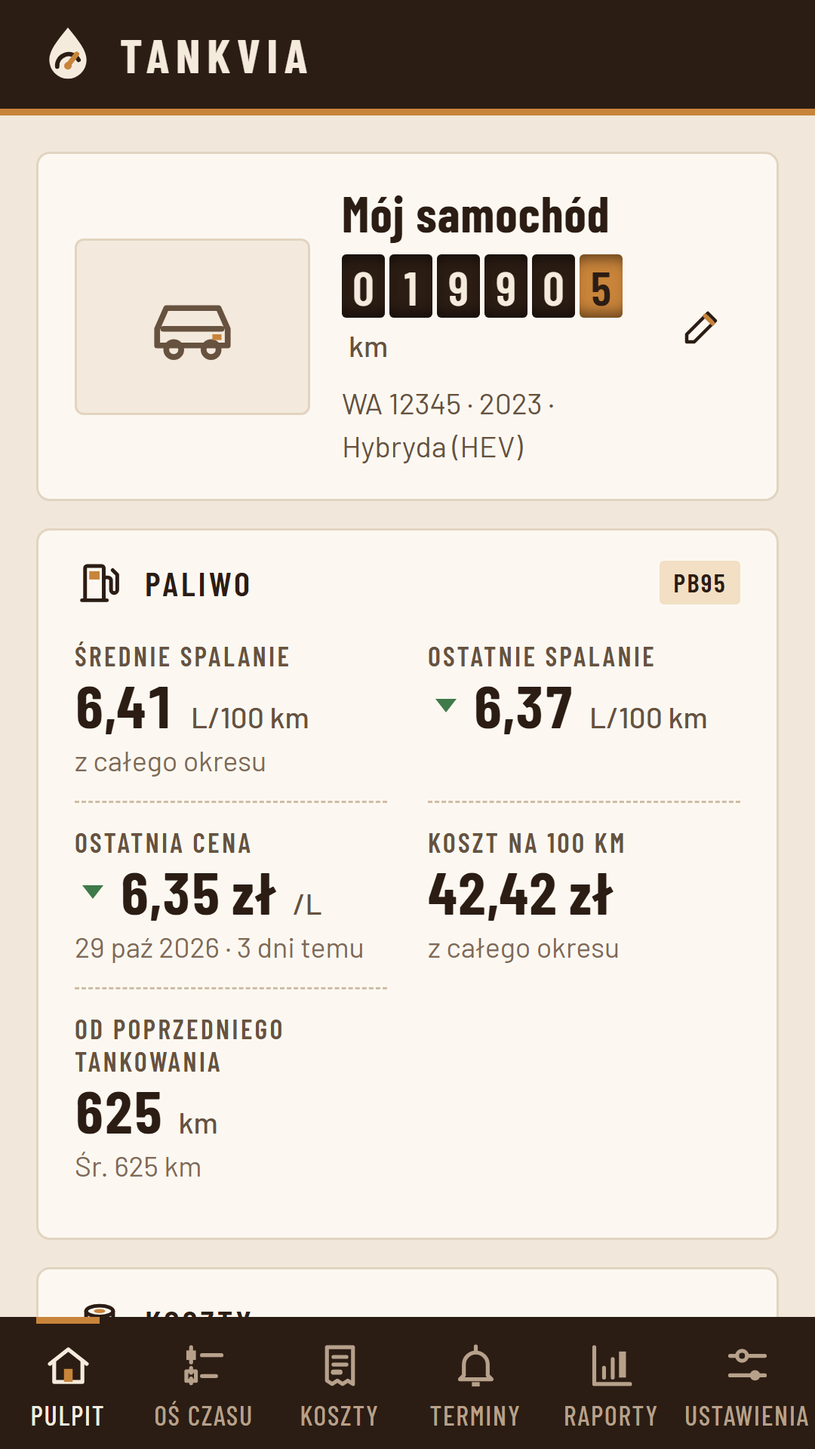
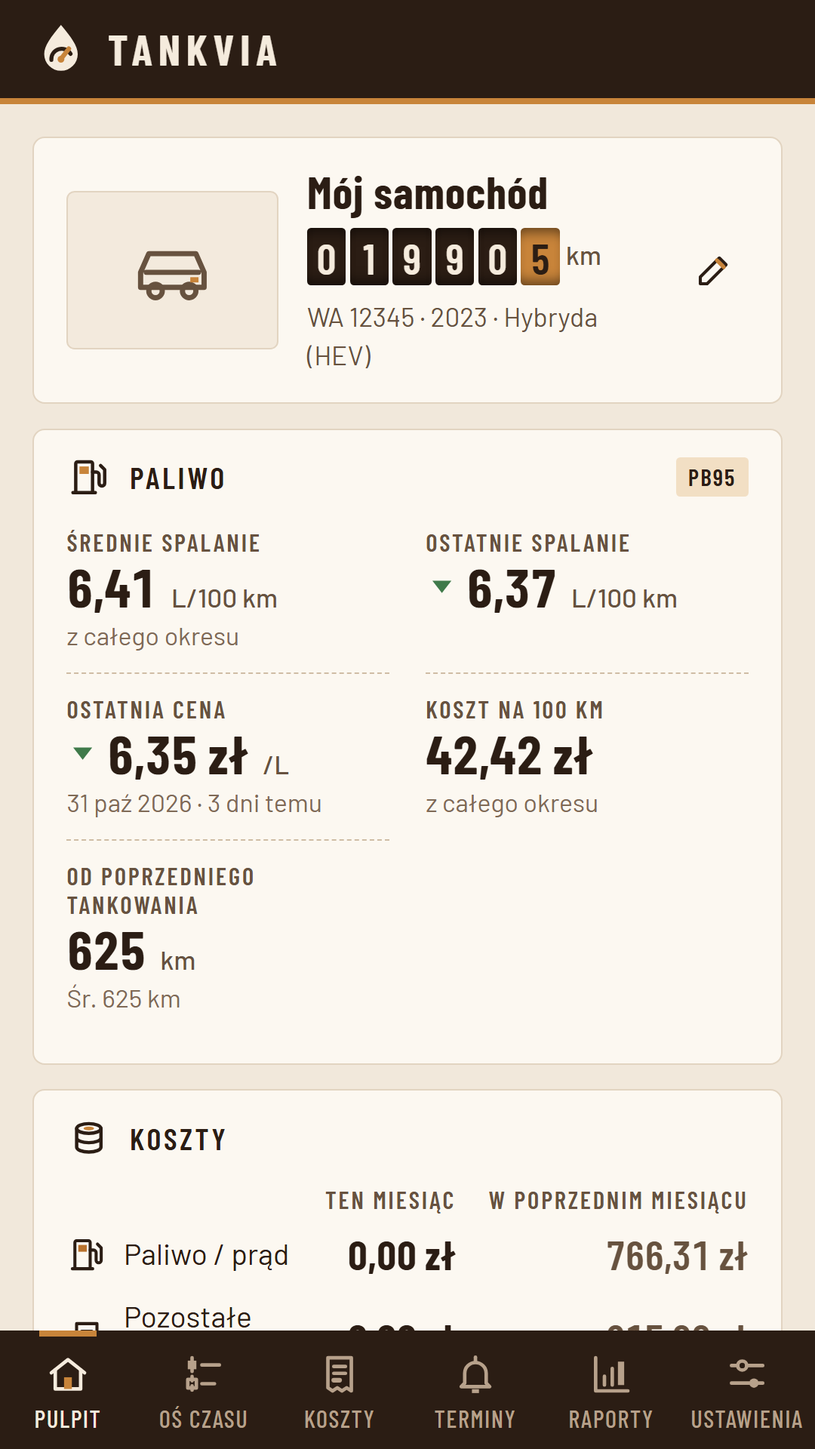
Version 1.1: interface 10% smaller, four colour sets, calendar of reminders

diff --git a/docs/index.html b/docs/index.html
@@ -11,7 +11,8 @@
 <meta name="apple-mobile-web-app-capable" content="yes">
 <meta name="apple-mobile-web-app-title" content="Tankvia">
 <script>/* before the first paint, so a chosen theme doesn't flash; the database with the settings opens later */
-let themePick;try{themePick=localStorage.getItem("tankvia-theme")}catch{}
+let themePick,palPick;try{themePick=localStorage.getItem("tankvia-theme");palPick=localStorage.getItem("tankvia-palette")}catch{}
+document.documentElement.dataset.palette=palPick||"coffee";document.documentElement.style.zoom=.9;
 document.documentElement.dataset.theme=themePick==="dark"||(themePick!=="light"&&matchMedia("(prefers-color-scheme:dark)").matches)?"dark":"light";</script>
 <style>
 /* ===== Tankvia design: "logbook & instrument cluster" =====
@@ -44,6 +45,19 @@ document.documentElement.dataset.theme=themePick==="dark"||(themePick!=="light"&
  --accent:#D9A066;--accent-soft:#44311F;--head:#0F0A07;--head-ink:#F3E8DA;--head-2:#2D2118;--head-line:#4F3D2F;--head-dim:#A8937F;
  --good:#7DB686;--bad:#E5806C;--warn:#D9A066;--warn-soft:#44311F;--danger:#E5806C;--danger-soft:#43221A;
  --c-fuel:#D9A066;--c-charge:#6FB0C2;--c-svc:#E08A6B;--c-fix:#7DB08C;--c-oth:#A0907F}
+/* the other colour sets; coffee (above) is the default. Each sets every token, for light and for dark. */
+:root[data-palette=graphite]{
+ --bg:#ECE8DF;--surface:#FBF9F4;--surface-2:#F2EEE5;--ink:#17191C;--ink-2:#585C63;--ink-3:#62666D;--line:#DCD6C9;--line-2:#C8C1B2;--accent:#E29A17;--accent-ink:#17191C;--accent-soft:#F7E5C0;--head:#17191C;--head-ink:#F2EEE5;--head-2:#2A2D31;--head-line:#3B4046;--head-dim:#9EA3AA;--good:#2D7A4E;--bad:#B5392C;--warn:#8F5500;--warn-soft:#F6E7CA;--danger:#B5392C;--danger-soft:#F4DAD5;--c-fuel:#D98A00;--c-charge:#2C6FB7;--c-svc:#A84B32;--c-fix:#2D6E6A;--c-oth:#7B7F86}
+:root[data-palette=graphite][data-theme=dark]{
+ --bg:#0E1012;--surface:#171A1D;--surface-2:#1F2327;--ink:#ECE8E0;--ink-2:#A3A7AE;--ink-3:#8A8E95;--line:#2A2E33;--line-2:#3B4046;--accent:#F2AE2E;--accent-ink:#17191C;--accent-soft:#3B2F16;--head:#08090A;--head-ink:#ECE8E0;--head-2:#1F2327;--head-line:#3B4046;--head-dim:#8F949B;--good:#5DB67F;--bad:#E66C5E;--warn:#F2AE2E;--warn-soft:#3B2F16;--danger:#E66C5E;--danger-soft:#3E1E1A;--c-fuel:#F2AE2E;--c-charge:#5C9DE8;--c-svc:#E07B60;--c-fix:#4FB3A9;--c-oth:#8E939B}
+:root[data-palette=forest]{
+ --bg:#E8ECE3;--surface:#F8FAF5;--surface-2:#EEF2E8;--ink:#17231A;--ink-2:#4C5B50;--ink-3:#5A685E;--line:#D3DCCD;--line-2:#BCC8B5;--accent:#8DB04A;--accent-ink:#17231A;--accent-soft:#E0EACB;--head:#1C2A20;--head-ink:#EEF2E8;--head-2:#2B3A2F;--head-line:#45584A;--head-dim:#A7B5AA;--good:#2F7A45;--bad:#B0402F;--warn:#7A5800;--warn-soft:#F2E7C4;--danger:#B0402F;--danger-soft:#F3DAD3;--c-fuel:#6B8E2A;--c-charge:#2C6FB7;--c-svc:#A84B32;--c-fix:#2D6E6A;--c-oth:#77806F}
+:root[data-palette=forest][data-theme=dark]{
+ --bg:#0D120E;--surface:#151C17;--surface-2:#1C251F;--ink:#E6EDE5;--ink-2:#A5B2A7;--ink-3:#86938A;--line:#26312A;--line-2:#36433A;--accent:#A8C96A;--accent-ink:#17231A;--accent-soft:#2A3520;--head:#080B09;--head-ink:#E6EDE5;--head-2:#1C251F;--head-line:#36433A;--head-dim:#8E9B91;--good:#6FC08A;--bad:#E5806C;--warn:#E2B54E;--warn-soft:#3A3118;--danger:#E5806C;--danger-soft:#43221A;--c-fuel:#A8C96A;--c-charge:#5C9DE8;--c-svc:#E08A6B;--c-fix:#4FB3A9;--c-oth:#9AA39C}
+:root[data-palette=ocean]{
+ --bg:#E7EBF0;--surface:#F8FAFC;--surface-2:#EDF1F5;--ink:#132033;--ink-2:#4B596C;--ink-3:#58657A;--line:#D4DBE4;--line-2:#BEC8D4;--accent:#E07A5F;--accent-ink:#132033;--accent-soft:#F7DCD3;--head:#14233A;--head-ink:#EDF1F5;--head-2:#22344F;--head-line:#3A4D69;--head-dim:#A3B0C2;--good:#2D7A4E;--bad:#B5392C;--warn:#8A5000;--warn-soft:#F6E7CA;--danger:#B5392C;--danger-soft:#F4DAD5;--c-fuel:#CC5E3F;--c-charge:#2C6FB7;--c-svc:#7A5AA6;--c-fix:#2D6E6A;--c-oth:#77808F}
+:root[data-palette=ocean][data-theme=dark]{
+ --bg:#0B111A;--surface:#121A26;--surface-2:#192331;--ink:#E6ECF3;--ink-2:#A3AFBF;--ink-3:#8693A4;--line:#243042;--line-2:#344257;--accent:#F08C70;--accent-ink:#132033;--accent-soft:#3D2620;--head:#070B11;--head-ink:#E6ECF3;--head-2:#192331;--head-line:#344257;--head-dim:#8C99AB;--good:#5DB67F;--bad:#E66C5E;--warn:#F0B44C;--warn-soft:#3B2F16;--danger:#E66C5E;--danger-soft:#3E1E1A;--c-fuel:#F08C70;--c-charge:#5C9DE8;--c-svc:#A98AD6;--c-fix:#4FB3A9;--c-oth:#8E97A6}
 /* Safe areas: the Android app draws edge-to-edge and Capacitor puts the bar sizes in --safe-area-inset-*; browsers/iOS use env(). */
 :root{--sat:var(--safe-area-inset-top,env(safe-area-inset-top,0px));--sab:var(--safe-area-inset-bottom,env(safe-area-inset-bottom,0px))}
 /* with the magnifier (CSS zoom) on, viewport units are not zoomed but px are, so overlays size themselves with --vw/--vh */
@@ -223,6 +237,17 @@ button.icon{padding:6px;min-height:34px;min-width:34px;justify-content:center}
 .slide .sl{font:600 11.5px var(--f-num);letter-spacing:.09em;text-transform:uppercase;color:var(--ink-2)}
 .slide .sv{font:700 21px/1.15 var(--f-num);font-variant-numeric:tabular-nums}
 .slide .sv .u{display:block;margin-left:0;white-space:nowrap}
+.cal-head{justify-content:space-between;margin:-4px 0 8px}
+.cal-head b{font:700 17px var(--f-num);letter-spacing:.06em;text-transform:uppercase}
+.cal{display:grid;grid-template-columns:repeat(7,minmax(0,1fr));gap:4px}
+.cal .wd{font:600 11px var(--f-num);letter-spacing:.06em;text-transform:uppercase;color:var(--ink-3);text-align:center;padding:2px 0;overflow:hidden;text-overflow:ellipsis;white-space:nowrap}
+.cal button{min-height:42px;padding:4px 0;flex-direction:column;justify-content:center;gap:3px;border-color:transparent;background:var(--surface-2);font:600 15px var(--f-num);border-radius:4px}
+.cal button.today{border-color:var(--accent)}
+.cal button.sel{background:var(--ink);color:var(--surface)}
+.cal .dots{display:flex;gap:2px;height:5px}
+.cal .dots i{width:5px;height:5px;border-radius:50%;background:var(--accent)}
+.cal .dots i.warn{background:var(--warn)}.cal .dots i.danger{background:var(--danger)}.cal .dots i.done{background:var(--ink-3)}
+.cal-day{margin-top:12px;padding-top:10px;border-top:1px dashed var(--line-2)}
 @media (max-width:340px){.slide .sv{font-size:17px}.mtab{gap:6px 8px}.mtab>em{font-size:16px}}
 .slide .sn{font-size:11.5px;color:var(--ink-3);line-height:1.25}
 .dots{display:flex;justify-content:center;gap:5px;margin:2px 0 16px}
@@ -378,7 +403,7 @@ select{max-width:100%}
 <script src="notify.js"></script>
 <script>
 const I18N={
-pl:{theme:"Motyw",themeAuto:"Automatyczny (jak w telefonie)",themeLight:"Jasny",themeDark:"Ciemny",searchingStations:"Szukam stacji…",avgAll:"z całego okresu",avgPerUnit:"ważona ilością",avgMonthNote:"z {n} mies.",avgTooShort:"potrzeba min. 4 tygodni danych",dashboard:"Pulpit",fuelTab:"Tankowania",chargeTab:"Ładowania",energyTab:"Paliwo i prąd",costs:"Koszty",reminders:"Przypomnienia",reports:"Raporty",settings:"Ustawienia",
+pl:{addEvent:"Dodaj wydarzenie",palette:"Kolorystyka",palCoffee:"Kawa",palGraphite:"Grafit",palForest:"Las",palOcean:"Ocean",calendar:"Kalendarz",noRemDay:"Brak terminów w tym dniu.",prevMonth:"Poprzedni miesiąc",nextMonth:"Następny miesiąc",theme:"Motyw",themeAuto:"Automatyczny (jak w telefonie)",themeLight:"Jasny",themeDark:"Ciemny",searchingStations:"Szukam stacji…",avgAll:"z całego okresu",avgPerUnit:"ważona ilością",avgMonthNote:"z {n} mies.",avgTooShort:"potrzeba min. 4 tygodni danych",dashboard:"Pulpit",fuelTab:"Tankowania",chargeTab:"Ładowania",energyTab:"Paliwo i prąd",costs:"Koszty",reminders:"Przypomnienia",reports:"Raporty",settings:"Ustawienia",
 addFuel:"Dodaj tankowanie",editFuel:"Edytuj tankowanie",addCharge:"Dodaj ładowanie",editCharge:"Edytuj ładowanie",addCost:"Dodaj koszt",editCost:"Edytuj koszt",addReminder:"Zaplanuj serwis",editReminder:"Edytuj planowany serwis",addVehicle:"Dodaj samochód",editVehicle:"Edytuj samochód",
 vehicles:"Samochody",name:"Nazwa (np. Skoda Octavia)",plate:"Nr rejestracyjny",year:"Rok produkcji",vin:"VIN",tankCap:"Pojemność baku",battery:"Pojemność baterii (kWh)",batteryShort:"Bateria",carPhoto:"Zdjęcie samochodu",fuelType:"Napęd",
 refCons:"Spalanie porównywalnego auta spalinowego",refPrice:"Cena paliwa do porównania",refHint:"Na tej podstawie aplikacja policzy, ile oszczędzasz, jeżdżąc na prądzie.",
@@ -413,7 +438,7 @@ fuelTypes:{petrol:"Benzyna",diesel:"Diesel",lpg:"LPG",hybrid:"Hybryda (HEV)",phe
 ct:{home:"Dom",work:"Praca",ac:"Publiczna AC",dc:"Szybka DC"},
 kinds:{service:"Serwis",repair:"Naprawa",tyres:"Opony",inspection:"Przegląd techniczny",insurance:"Ubezpieczenie",tax:"Podatki i opłaty",leasing:"Leasing / rata",parking:"Parking",tolls:"Autostrady",wash:"Myjnia",fines:"Mandaty",accessories:"Akcesoria",other:"Inne"},
 grp:{fuel:"Paliwo",charge:"Ładowanie",svc:"Serwis i naprawy",fix:"Ubezpieczenie, opłaty, leasing",oth:"Inne"}},
-en:{theme:"Theme",themeAuto:"Automatic (follow phone)",themeLight:"Light",themeDark:"Dark",searchingStations:"Searching for stations…",avgAll:"over all records",avgPerUnit:"weighted by amount",avgMonthNote:"over {n} months",avgTooShort:"needs at least 4 weeks of data",dashboard:"Dashboard",fuelTab:"Fill-ups",chargeTab:"Charging",energyTab:"Fuel & power",costs:"Costs",reminders:"Reminders",reports:"Reports",settings:"Settings",
+en:{addEvent:"Add event",palette:"Colours",palCoffee:"Coffee",palGraphite:"Graphite",palForest:"Forest",palOcean:"Ocean",calendar:"Calendar",noRemDay:"Nothing scheduled on this day.",prevMonth:"Previous month",nextMonth:"Next month",theme:"Theme",themeAuto:"Automatic (follow phone)",themeLight:"Light",themeDark:"Dark",searchingStations:"Searching for stations…",avgAll:"over all records",avgPerUnit:"weighted by amount",avgMonthNote:"over {n} months",avgTooShort:"needs at least 4 weeks of data",dashboard:"Dashboard",fuelTab:"Fill-ups",chargeTab:"Charging",energyTab:"Fuel & power",costs:"Costs",reminders:"Reminders",reports:"Reports",settings:"Settings",
 addFuel:"Add fill-up",editFuel:"Edit fill-up",addCharge:"Add charge",editCharge:"Edit charge",addCost:"Add cost",editCost:"Edit cost",addReminder:"Schedule service",editReminder:"Edit scheduled service",addVehicle:"Add car",editVehicle:"Edit car",
 vehicles:"Cars",name:"Name (e.g. Toyota Corolla)",plate:"Licence plate",year:"Year",vin:"VIN",tankCap:"Tank capacity",battery:"Battery capacity (kWh)",batteryShort:"Battery",carPhoto:"Car photo",fuelType:"Powertrain",
 refCons:"Comparable combustion car consumption",refPrice:"Fuel price for comparison",refHint:"Used to calculate how much you save by driving electric.",
@@ -455,7 +480,7 @@ const UNITS={
  us:{label:"mi · gal (US) · mpg",d:"mi",v:"gal",cons:(q,d)=>d/q,cu:"mpg",econs:(e,d)=>d/e,ecu:"mi/kWh",used:(c,d)=>d/c},
  uk:{label:"mi · gal (UK) · mpg",d:"mi",v:"gal",cons:(q,d)=>d/q,cu:"mpg",econs:(e,d)=>d/e,ecu:"mi/kWh",used:(c,d)=>d/c}
 };
-const ZOOMS=[1,1.15,1.3,1.5,1.75,2];
+const ZOOMS=[1,1.15,1.3,1.5,1.75,2],UI_SCALE=.9; // everything is drawn at 90%: testers found the 2026 layout too big
 const CURRENCIES=["PLN","EUR","USD","GBP","CHF","CZK","SEK","NOK","DKK","ISK","HUF","RON","UAH","CAD","AUD","JPY","INR","BRL","MXN","TRY","ZAR"];
 /* Polish and English are built in; the other languages live in lang/<code>.js and load when chosen.
    [native name, Intl locale, default currency for a first start in that language] */
@@ -505,7 +530,9 @@ const NAV_SHORT={pl:{reminders:"Terminy"},de:{reminders:"Termine",settings:"Opti
 // All menu labels share one size: the largest at which none of them is cut off.
 function applyTheme(){
  const pick=S.settings.theme||"auto";document.documentElement.dataset.theme=pick==="dark"||(pick==="auto"&&matchMedia("(prefers-color-scheme:dark)").matches)?"dark":"light";
- if(!S.demo)try{localStorage.setItem("tankvia-theme",pick)}catch{}
+ document.documentElement.dataset.palette=S.settings.palette||"coffee";
+ $('meta[name="theme-color"]').content=getComputedStyle(document.documentElement).getPropertyValue("--head").trim();
+ if(!S.demo)try{localStorage.setItem("tankvia-theme",pick);localStorage.setItem("tankvia-palette",S.settings.palette||"coffee")}catch{}
 }
 matchMedia("(prefers-color-scheme:dark)").addEventListener("change",()=>applyTheme());
 function fitNav(){const box=$("#tabs"),labels=[...box.querySelectorAll(".lbl")];for(const fs of [12,11.5,11,10.5,10,9.5,9]){box.style.setProperty("--nav-fs",fs+"px");box.style.setProperty("--nav-ls",fs<12?".01em":".05em");if(!labels.some(l=>l.scrollWidth>l.clientWidth))break}}
@@ -827,13 +854,13 @@ function costForm(s,kind){
  ],s||{kind:kind||"service",date:today(),odo:curOdo()||null},o=>{let x=s;if(s)Object.assign(s,o);else{x={id:uid(),vid:S.active,...o};S.services.push(x)}syncAutoReminder(x)},
  s&&(()=>{S.services=S.services.filter(x=>x!==s);S.reminders=S.reminders.filter(r=>!(r.src===s.id&&!r.done))}));
 }
-function reminderForm(r){
+function reminderForm(r,date){
  const u=U();
  openForm(t(r?"editReminder":"addReminder"),[
   {k:"title",label:t("remTitle"),req:true},
   [{k:"date",label:t("dueDate"),type:"date"},{k:"odo",label:`${t("dueOdo")} (${u.d})`,type:"number"}],
   {k:"note",label:t("note"),type:"textarea"}
- ],r||{},o=>{if(r)Object.assign(r,o);else S.reminders.push({id:uid(),vid:S.active,done:false,...o})},
+ ],r||(date?{date}:{}),o=>{if(r)Object.assign(r,o);else S.reminders.push({id:uid(),vid:S.active,done:false,...o})},
  r&&(()=>{S.reminders=S.reminders.filter(x=>x!==r)}));
 }
 function reportForm(){
@@ -1015,10 +1042,25 @@ function viewCosts(){
  <div class="card list">${list.length?list.map(costItem).join(""):emptyBox("receipt",t("noEntries"))}</div>
  ${list.length?`<div class="card row"><span class="rl">${t("total")}</span><span class="sp"></span><span class="rv">${money(sum(list,s=>+s.cost||0))}</span></div>`:""}`;
 }
+/* Month calendar of reminders: dots on days with something due, a tap shows that day and lets you add a reminder for it. */
+let calMonth=null,calDay=null;
+function calendarCard(){
+ const m=calMonth||today().slice(0,7),[y,mo]=m.split("-").map(Number),days=new Date(y,mo,0).getDate();
+ const li=new Intl.Locale(loc()),fd=((li.getWeekInfo?.()||li.weekInfo)?.firstDay??1)%7,lead=(new Date(y,mo-1,1).getDay()-fd+7)%7;
+ const ev={};mine(S.reminders).filter(r=>r.date?.startsWith(m)).forEach(r=>(ev[r.date]=ev[r.date]||[]).push(r));
+ const wd=[...Array(7)].map((_,i)=>`<span class="wd">${new Intl.DateTimeFormat(loc(),{weekday:"short"}).format(new Date(2024,0,7+(fd+i)%7))}</span>`).join("");
+ const cells=[...Array(lead)].map(()=>"<span></span>").join("")+[...Array(days)].map((_,i)=>{const k=`${m}-${pad(i+1)}`,list=ev[k]||[];
+  return`<button type="button" class="${k===today()?"today":""} ${k===calDay?"sel":""}" data-act="calDay" data-id="${k}"><span>${i+1}</span><span class="dots">${list.slice(0,3).map(r=>`<i class="${r.done?"done":remStatus(r)?.cls||""}"></i>`).join("")}</span></button>`}).join("");
+ const sel=calDay?.startsWith(m)?calDay:null,selList=sel?ev[sel]||[]:[];
+ return`<h3>${ic("calendar")}${t("calendar")}</h3><div class="card"><div class="row cal-head"><button type="button" class="small ghost icon" data-act="calMove" data-id="-1" aria-label="${t("prevMonth")}"><span style="display:inline-flex;transform:scaleX(-1)">${ic("arrow")}</span></button><b>${new Intl.DateTimeFormat(loc(),{month:"long",year:"numeric"}).format(new Date(y,mo-1,15))}</b><button type="button" class="small ghost icon" data-act="calMove" data-id="1" aria-label="${t("nextMonth")}">${ic("arrow")}</button></div>
+ <div class="cal">${wd}${cells}</div>
+ ${sel?`<div class="cal-day"><div class="row"><b>${fdate(sel)}</b><span class="sp"></span><button type="button" class="small" data-act="calAdd" data-id="${sel}">${ic("plus")}${t("addEvent")}</button></div>${selList.length?`<div class="list">${selList.map(remItem).join("")}</div>`:`<p class="muted" style="margin:6px 0 0">${t("noRemDay")}</p>`}</div>`:""}</div>`;
+}
 function viewReminders(){
  if(!veh())return viewDashboard();
  const all=mine(S.reminders),open=sortRem(all.filter(r=>!r.done)),done=all.filter(r=>r.done);
  return`<div class="row" style="margin-bottom:12px"><h2 style="margin:0">${ic("bell")}${t("reminders")}</h2><span class="sp"></span><button class="primary" data-act="remAdd">${ic("plus")}${t("addReminder")}</button></div>
+ ${calendarCard()}
  <h3>${t("upcoming")}</h3><div class="card list">${open.length?open.map(remItem).join(""):emptyBox("bell",t("noEntries"))}</div>
  ${done.length?`<h3>${t("completed")}</h3><div class="card list">${done.map(remItem).join("")}</div>`:""}`;
 }
@@ -1068,7 +1110,8 @@ function viewSettings(){
  <div class="card"><div class="grid2">
   <label class="field"><span>${t("language")}</span><select data-set="lang">${Object.entries(LANGS).map(([k,[n]])=>`<option value="${k}" ${s.lang===k?"selected":""}>${n}</option>`).join("")}</select></label>
   <label class="field"><span>${t("currency")}</span><select data-set="currency">${CURRENCIES.map(c=>`<option ${c===s.currency?"selected":""}>${c}</option>`).join("")}</select></label>
- </div><label class="field" style="margin-top:12px"><span>${t("theme")}</span><select data-set="theme">${["Auto","Light","Dark"].map(v=>`<option value="${v.toLowerCase()}" ${(s.theme||"auto")===v.toLowerCase()?"selected":""}>${t("theme"+v)}</option>`).join("")}</select></label>
+ </div><label class="field" style="margin-top:12px"><span>${t("palette")}</span><select data-set="palette">${["Coffee","Graphite","Forest","Ocean"].map(v=>`<option value="${v.toLowerCase()}" ${(s.palette||"coffee")===v.toLowerCase()?"selected":""}>${t("pal"+v)}</option>`).join("")}</select></label>
+ <label class="field" style="margin-top:12px"><span>${t("theme")}</span><select data-set="theme">${["Auto","Light","Dark"].map(v=>`<option value="${v.toLowerCase()}" ${(s.theme||"auto")===v.toLowerCase()?"selected":""}>${t("theme"+v)}</option>`).join("")}</select></label>
  <label class="field" style="margin-top:12px"><span>${t("textSize")}</span><select data-set="zoom">${ZOOMS.map(z=>`<option value="${z}" ${z==(s.zoom||1)?"selected":""}>${Math.round(z*100)}%${z==1?` (${t("normal")})`:""}</option>`).join("")}</select><small>${t("textSizeHint")}</small></label>
  <label class="field" style="margin-top:12px"><span>${t("units")}</span><select data-set="units">${Object.entries(UNITS).map(([k,v])=>`<option value="${k}" ${k===s.units?"selected":""}>${v.label} · ${v.ecu}</option>`).join("")}</select></label></div>
  <h3>${ic("car")}${t("vehicles")}</h3><div class="card list">${S.vehicles.map(v=>`<div class="item">${v.photo?`<img class="thumb" src="${v.photo}" alt="">`:tile(v.fuelType==="ev"?"bolt":"car","var(--accent)")}<div class="main"><div class="t">${esc(v.name)} ${v.id===S.active?`<span class="badge">${ic("check","sm")}</span>`:""}</div><div class="s">${[v.plate,t("fuelTypes")[v.fuelType]].filter(Boolean).map(esc).join(" · ")}</div></div><button class="small ghost" data-act="vehEditId" data-id="${v.id}">${ic("edit")}${t("edit")}</button></div>`).join("")}
@@ -1113,7 +1156,7 @@ function render(){
  document.documentElement.lang=S.settings.lang;
  // magnifier: CSS zoom scales the whole layout (text, buttons, charts) and reflows it, so nothing gets cut off
  applyTheme();
- const zm=+S.settings.zoom||1;document.documentElement.style.zoom=zm;document.documentElement.style.setProperty("--zoom",zm);$("#zoomBtn").hidden=!!S.demo;document.documentElement.classList.toggle("zoom-xl",zm>=1.75&&!S.demo);document.documentElement.classList.toggle("zoom-l",zm>=1.15&&!S.demo);
+ const zm=+S.settings.zoom||1,ez=zm*UI_SCALE;document.documentElement.style.zoom=ez;document.documentElement.style.setProperty("--zoom",ez);$("#zoomBtn").hidden=!!S.demo;document.documentElement.classList.toggle("zoom-xl",zm>=1.75&&!S.demo);document.documentElement.classList.toggle("zoom-l",zm>=1.15&&!S.demo);
  $("#zoomBtn").innerHTML=`${ic("search")}${Math.round(zm*100)}%`;$("#zoomBtn").title=$("#zoomBtn").ariaLabel=t("textSize");
  const V=veh(),sel=$("#vehSel");sel.hidden=S.vehicles.length<2;sel.innerHTML=S.vehicles.map(v=>`<option value="${v.id}" ${v.id===S.active?"selected":""}>${esc(v.name)}</option>`).join("");
  const due=mine(S.reminders).filter(r=>remStatus(r)?.cls==="danger").length;
@@ -1172,7 +1215,7 @@ function demoState(lang){
 }
 
 /* ---------- install & notifications ---------- */
-const APP_VERSION="v17"; // keep in sync with VERSION in sw.js
+const APP_VERSION="v18"; // keep in sync with VERSION in sw.js
 let installEvt=null;
 const isNative=!!window.Capacitor?.isNativePlatform?.(); // running as the Google Play / App Store app
 const standalone=()=>isNative||matchMedia("(display-mode: standalone)").matches||navigator.standalone===true;
@@ -1242,7 +1285,10 @@ document.addEventListener("click",e=>{
   fuelAdd:()=>fuelForm(),fuelEdit:()=>fuelForm(S.fuel.find(x=>x.id===id)),
   chargeAdd:()=>chargeForm(),chargeEdit:()=>chargeForm(S.charges.find(x=>x.id===id)),
   costAdd:()=>costForm(null,costFilter==="fix"?"insurance":costFilter==="oth"?"parking":"service"),costEdit:()=>costForm(S.services.find(x=>x.id===id)),
-  remAdd:()=>reminderForm(),remEdit:()=>reminderForm(S.reminders.find(x=>x.id===id)),
+  remAdd:()=>reminderForm(),
+  calMove:()=>{const[y,m]=(calMonth||today().slice(0,7)).split("-").map(Number),d=new Date(y,m-1+(+id),15);calMonth=`${d.getFullYear()}-${pad(d.getMonth()+1)}`;render()},
+  calDay:()=>{calDay=calDay===id?null:id;render()},
+  calAdd:()=>reminderForm(null,id),remEdit:()=>reminderForm(S.reminders.find(x=>x.id===id)),
   remToggle:()=>{const r=S.reminders.find(x=>x.id===id);r.done=!r.done;r.doneDate=r.done?today():null;save();render()},
   tlFilter:()=>{tlFilter=id;render()},costFilter:()=>{costFilter=id;render()},fab:quickAdd,
   zoom:()=>{const i=ZOOMS.indexOf(+S.settings.zoom||1);S.settings.zoom=ZOOMS[(i+1)%ZOOMS.length];save();render()},
@@ -1266,7 +1312,7 @@ $("#vehSel").onchange=e=>{S.active=e.target.value;save();render()};
  if(!qs.has("demo"))try{S=await idb.get("state")}catch(e){console.error(e)}
  S=S?{...defaults(),...S}:defaults();
  await loadLang(qs.get("lang")||S.settings.lang);
- if(qs.has("demo")){S=demoState(qs.get("lang")||S.settings.lang);tab=qs.get("tab")||tab;if(qs.has("z"))S.settings.zoom=+qs.get("z");if(qs.has("theme"))S.settings.theme=qs.get("theme")} // sample data for store screenshots; never saved
+ if(qs.has("demo")){S=demoState(qs.get("lang")||S.settings.lang);tab=qs.get("tab")||tab;if(qs.has("z"))S.settings.zoom=+qs.get("z");if(qs.has("theme"))S.settings.theme=qs.get("theme");if(qs.has("palette"))S.settings.palette=qs.get("palette")} // sample data for store screenshots; never saved
  render();
  if(S.demo){if(qs.get("open")==="fuel")fuelForm();if(qs.get("open")==="fab")quickAdd();if(qs.get("at")==="trends")for(const el of [...$("#app").children]){if(el.nextElementSibling?.id==="carousel")break;el.hidden=true}}
  if(!S.vehicles.length)vehicleForm();

diff --git a/docs/lang/hi.js b/docs/lang/hi.js
@@ -1,4 +1,4 @@
-I18N.hi={theme:"थीम",themeAuto:"स्वचालित (फ़ोन के अनुसार)",themeLight:"हल्की",themeDark:"गहरी",searchingStations:"पंप खोजे जा रहे हैं…",avgAll:"पूरी अवधि का",avgPerUnit:"मात्रा के अनुसार भारित",avgMonthNote:"{n} महीनों का",avgTooShort:"कम से कम 4 हफ़्ते का डेटा चाहिए",dashboard:"डैशबोर्ड",fuelTab:"ईंधन भराई",chargeTab:"चार्जिंग",energyTab:"ईंधन और बिजली",costs:"खर्च",reminders:"रिमाइंडर",reports:"रिपोर्ट",settings:"सेटिंग्स",
+I18N.hi={addEvent:"इवेंट जोड़ें",palette:"रंग",palCoffee:"कॉफ़ी",palGraphite:"ग्रेफ़ाइट",palForest:"जंगल",palOcean:"सागर",calendar:"कैलेंडर",noRemDay:"इस दिन के लिए कुछ तय नहीं है।",prevMonth:"पिछला महीना",nextMonth:"अगला महीना",theme:"थीम",themeAuto:"स्वचालित (फ़ोन के अनुसार)",themeLight:"हल्की",themeDark:"गहरी",searchingStations:"पंप खोजे जा रहे हैं…",avgAll:"पूरी अवधि का",avgPerUnit:"मात्रा के अनुसार भारित",avgMonthNote:"{n} महीनों का",avgTooShort:"कम से कम 4 हफ़्ते का डेटा चाहिए",dashboard:"डैशबोर्ड",fuelTab:"ईंधन भराई",chargeTab:"चार्जिंग",energyTab:"ईंधन और बिजली",costs:"खर्च",reminders:"रिमाइंडर",reports:"रिपोर्ट",settings:"सेटिंग्स",
 addFuel:"ईंधन भराई जोड़ें",editFuel:"ईंधन भराई बदलें",addCharge:"चार्जिंग जोड़ें",editCharge:"चार्जिंग बदलें",addCost:"खर्च जोड़ें",editCost:"खर्च बदलें",addReminder:"सर्विस तय करें",editReminder:"तय सर्विस बदलें",addVehicle:"कार जोड़ें",editVehicle:"कार बदलें",
 vehicles:"कारें",name:"नाम (जैसे Maruti Swift)",plate:"नंबर प्लेट",year:"साल",vin:"चेसिस नंबर (VIN)",tankCap:"टंकी की क्षमता",battery:"बैटरी क्षमता (kWh)",batteryShort:"बैटरी",carPhoto:"कार की फ़ोटो",fuelType:"इंजन प्रकार",
 refCons:"मिलती-जुलती पेट्रोल/डीज़ल कार की खपत",refPrice:"तुलना के लिए ईंधन की कीमत",refHint:"इससे पता चलता है कि बिजली से चलाकर आप कितना बचाते हैं।",

diff --git a/docs/lang/bg.js b/docs/lang/bg.js
@@ -1,4 +1,4 @@
-I18N.bg={theme:"Тема",themeAuto:"Автоматично (като телефона)",themeLight:"Светла",themeDark:"Тъмна",searchingStations:"Търсене на станции…",avgAll:"за целия период",avgPerUnit:"претеглено по количество",avgMonthNote:"за {n} мес.",avgTooShort:"нужни са поне 4 седмици данни",dashboard:"Табло",fuelTab:"Зареждания",chargeTab:"Зареждания (ток)",energyTab:"Гориво и ток",costs:"Разходи",reminders:"Напомняния",reports:"Отчети",settings:"Настройки",
+I18N.bg={addEvent:"Добави събитие",palette:"Цветове",palCoffee:"Кафе",palGraphite:"Графит",palForest:"Гора",palOcean:"Океан",calendar:"Календар",noRemDay:"Няма нищо планирано за този ден.",prevMonth:"Предишен месец",nextMonth:"Следващ месец",theme:"Тема",themeAuto:"Автоматично (като телефона)",themeLight:"Светла",themeDark:"Тъмна",searchingStations:"Търсене на станции…",avgAll:"за целия период",avgPerUnit:"претеглено по количество",avgMonthNote:"за {n} мес.",avgTooShort:"нужни са поне 4 седмици данни",dashboard:"Табло",fuelTab:"Зареждания",chargeTab:"Зареждания (ток)",energyTab:"Гориво и ток",costs:"Разходи",reminders:"Напомняния",reports:"Отчети",settings:"Настройки",
 addFuel:"Добави зареждане",editFuel:"Редактирай зареждането",addCharge:"Добави зареждане с ток",editCharge:"Редактирай зареждането с ток",addCost:"Добави разход",editCost:"Редактирай разхода",addReminder:"Планирай сервиз",editReminder:"Редактирай планирания сервиз",addVehicle:"Добави кола",editVehicle:"Редактирай колата",
 vehicles:"Коли",name:"Име (напр. VW Golf)",plate:"Регистрационен номер",year:"Година",vin:"VIN номер",tankCap:"Обем на резервоара",battery:"Капацитет на батерията (kWh)",batteryShort:"Батерия",carPhoto:"Снимка на колата",fuelType:"Задвижване",
 refCons:"Разход на сравним автомобил с ДВГ",refPrice:"Цена на горивото за сравнение",refHint:"Използва се, за да се изчисли колко спестявате с електромобил.",

diff --git a/docs/lang/uk.js b/docs/lang/uk.js
@@ -1,4 +1,4 @@
-I18N.uk={theme:"Тема",themeAuto:"Автоматично (як у телефоні)",themeLight:"Світла",themeDark:"Темна",searchingStations:"Пошук станцій…",avgAll:"за весь період",avgPerUnit:"зважене за кількістю",avgMonthNote:"за {n} міс.",avgTooShort:"потрібно щонайменше 4 тижні даних",dashboard:"Огляд",fuelTab:"Заправки",chargeTab:"Зарядки",energyTab:"Пальне та електрика",costs:"Витрати",reminders:"Нагадування",reports:"Звіти",settings:"Налаштування",
+I18N.uk={addEvent:"Додати подію",palette:"Кольори",palCoffee:"Кава",palGraphite:"Графіт",palForest:"Ліс",palOcean:"Океан",calendar:"Календар",noRemDay:"На цей день нічого не заплановано.",prevMonth:"Попередній місяць",nextMonth:"Наступний місяць",theme:"Тема",themeAuto:"Автоматично (як у телефоні)",themeLight:"Світла",themeDark:"Темна",searchingStations:"Пошук станцій…",avgAll:"за весь період",avgPerUnit:"зважене за кількістю",avgMonthNote:"за {n} міс.",avgTooShort:"потрібно щонайменше 4 тижні даних",dashboard:"Огляд",fuelTab:"Заправки",chargeTab:"Зарядки",energyTab:"Пальне та електрика",costs:"Витрати",reminders:"Нагадування",reports:"Звіти",settings:"Налаштування",
 addFuel:"Додати заправку",editFuel:"Редагувати заправку",addCharge:"Додати зарядку",editCharge:"Редагувати зарядку",addCost:"Додати витрату",editCost:"Редагувати витрату",addReminder:"Запланувати сервіс",editReminder:"Редагувати запланований сервіс",addVehicle:"Додати авто",editVehicle:"Редагувати авто",
 vehicles:"Автомобілі",name:"Назва (напр. Toyota Corolla)",plate:"Номерний знак",year:"Рік випуску",vin:"VIN-код",tankCap:"Об’єм бака",battery:"Ємність батареї (кВт·год)",batteryShort:"Батарея",carPhoto:"Фото авто",fuelType:"Тип приводу",
 refCons:"Витрата порівнянного авто з ДВЗ",refPrice:"Ціна пального для порівняння",refHint:"Потрібно, щоб порахувати, скільки ви заощаджуєте на електриці.",

diff --git a/docs/lang/hu.js b/docs/lang/hu.js
@@ -1,4 +1,4 @@
-I18N.hu={theme:"Téma",themeAuto:"Automatikus (mint a telefon)",themeLight:"Világos",themeDark:"Sötét",searchingStations:"Állomások keresése…",avgAll:"a teljes időszakra",avgPerUnit:"mennyiséggel súlyozva",avgMonthNote:"{n} hónap alapján",avgTooShort:"legalább 4 hét adat kell",dashboard:"Áttekintés",fuelTab:"Tankolások",chargeTab:"Töltések",energyTab:"Üzemanyag és áram",costs:"Költségek",reminders:"Emlékeztetők",reports:"Jelentések",settings:"Beállítások",
+I18N.hu={addEvent:"Esemény hozzáadása",palette:"Színek",palCoffee:"Kávé",palGraphite:"Grafit",palForest:"Erdő",palOcean:"Óceán",calendar:"Naptár",noRemDay:"Erre a napra nincs semmi tervezve.",prevMonth:"Előző hónap",nextMonth:"Következő hónap",theme:"Téma",themeAuto:"Automatikus (mint a telefon)",themeLight:"Világos",themeDark:"Sötét",searchingStations:"Állomások keresése…",avgAll:"a teljes időszakra",avgPerUnit:"mennyiséggel súlyozva",avgMonthNote:"{n} hónap alapján",avgTooShort:"legalább 4 hét adat kell",dashboard:"Áttekintés",fuelTab:"Tankolások",chargeTab:"Töltések",energyTab:"Üzemanyag és áram",costs:"Költségek",reminders:"Emlékeztetők",reports:"Jelentések",settings:"Beállítások",
 addFuel:"Tankolás hozzáadása",editFuel:"Tankolás szerkesztése",addCharge:"Töltés hozzáadása",editCharge:"Töltés szerkesztése",addCost:"Költség hozzáadása",editCost:"Költség szerkesztése",addReminder:"Szerviz ütemezése",editReminder:"Ütemezett szerviz szerkesztése",addVehicle:"Autó hozzáadása",editVehicle:"Autó szerkesztése",
 vehicles:"Autók",name:"Név (pl. Suzuki Vitara)",plate:"Rendszám",year:"Gyártási év",vin:"Alvázszám (VIN)",tankCap:"Tank térfogata",battery:"Akkumulátor kapacitása (kWh)",batteryShort:"Akkumulátor",carPhoto:"Fotó az autóról",fuelType:"Hajtás",
 refCons:"Hasonló belső égésű autó fogyasztása",refPrice:"Üzemanyagár az összehasonlításhoz",refHint:"Ebből számolja ki az alkalmazás, mennyit spórolsz elektromos autóval.",

diff --git a/docs/lang/fr.js b/docs/lang/fr.js
@@ -1,4 +1,4 @@
-I18N.fr={theme:"Thème",themeAuto:"Automatique (comme le téléphone)",themeLight:"Clair",themeDark:"Sombre",searchingStations:"Recherche des stations…",avgAll:"sur toute la période",avgPerUnit:"pondéré par la quantité",avgMonthNote:"sur {n} mois",avgTooShort:"au moins 4 semaines de données",dashboard:"Tableau de bord",fuelTab:"Pleins",chargeTab:"Recharges",energyTab:"Carburant & électricité",costs:"Dépenses",reminders:"Rappels",reports:"Rapports",settings:"Réglages",
+I18N.fr={addEvent:"Ajouter un événement",palette:"Couleurs",palCoffee:"Café",palGraphite:"Graphite",palForest:"Forêt",palOcean:"Océan",calendar:"Calendrier",noRemDay:"Rien de prévu ce jour-là.",prevMonth:"Mois précédent",nextMonth:"Mois suivant",theme:"Thème",themeAuto:"Automatique (comme le téléphone)",themeLight:"Clair",themeDark:"Sombre",searchingStations:"Recherche des stations…",avgAll:"sur toute la période",avgPerUnit:"pondéré par la quantité",avgMonthNote:"sur {n} mois",avgTooShort:"au moins 4 semaines de données",dashboard:"Tableau de bord",fuelTab:"Pleins",chargeTab:"Recharges",energyTab:"Carburant & électricité",costs:"Dépenses",reminders:"Rappels",reports:"Rapports",settings:"Réglages",
 addFuel:"Ajouter un plein",editFuel:"Modifier le plein",addCharge:"Ajouter une recharge",editCharge:"Modifier la recharge",addCost:"Ajouter une dépense",editCost:"Modifier la dépense",addReminder:"Planifier un entretien",editReminder:"Modifier l’entretien prévu",addVehicle:"Ajouter une voiture",editVehicle:"Modifier la voiture",
 vehicles:"Voitures",name:"Nom (ex. Renault Clio)",plate:"Immatriculation",year:"Année",vin:"N° VIN",tankCap:"Capacité du réservoir",battery:"Capacité de la batterie (kWh)",batteryShort:"Batterie",carPhoto:"Photo de la voiture",fuelType:"Motorisation",
 refCons:"Consommation d’une voiture thermique comparable",refPrice:"Prix du carburant pour comparaison",refHint:"Sert à calculer combien vous économisez en roulant à l’électrique.",

diff --git a/docs/lang/ro.js b/docs/lang/ro.js
@@ -1,4 +1,4 @@
-I18N.ro={theme:"Temă",themeAuto:"Automată (ca telefonul)",themeLight:"Deschisă",themeDark:"Închisă",searchingStations:"Se caută stații…",avgAll:"pe toată perioada",avgPerUnit:"ponderat cu cantitatea",avgMonthNote:"pe {n} luni",avgTooShort:"sunt necesare minim 4 săptămâni de date",dashboard:"Prezentare",fuelTab:"Alimentări",chargeTab:"Încărcări",energyTab:"Carburant și electricitate",costs:"Cheltuieli",reminders:"Mementouri",reports:"Rapoarte",settings:"Setări",
+I18N.ro={addEvent:"Adaugă eveniment",palette:"Culori",palCoffee:"Cafea",palGraphite:"Grafit",palForest:"Pădure",palOcean:"Ocean",calendar:"Calendar",noRemDay:"Nimic programat în această zi.",prevMonth:"Luna anterioară",nextMonth:"Luna următoare",theme:"Temă",themeAuto:"Automată (ca telefonul)",themeLight:"Deschisă",themeDark:"Închisă",searchingStations:"Se caută stații…",avgAll:"pe toată perioada",avgPerUnit:"ponderat cu cantitatea",avgMonthNote:"pe {n} luni",avgTooShort:"sunt necesare minim 4 săptămâni de date",dashboard:"Prezentare",fuelTab:"Alimentări",chargeTab:"Încărcări",energyTab:"Carburant și electricitate",costs:"Cheltuieli",reminders:"Mementouri",reports:"Rapoarte",settings:"Setări",
 addFuel:"Adaugă alimentare",editFuel:"Editează alimentarea",addCharge:"Adaugă încărcare",editCharge:"Editează încărcarea",addCost:"Adaugă cheltuială",editCost:"Editează cheltuiala",addReminder:"Programează service",editReminder:"Editează service-ul programat",addVehicle:"Adaugă mașină",editVehicle:"Editează mașina",
 vehicles:"Mașini",name:"Nume (ex. Dacia Logan)",plate:"Număr de înmatriculare",year:"An fabricație",vin:"Serie șasiu (VIN)",tankCap:"Capacitate rezervor",battery:"Capacitate baterie (kWh)",batteryShort:"Baterie",carPhoto:"Fotografia mașinii",fuelType:"Motorizare",
 refCons:"Consumul unei mașini termice comparabile",refPrice:"Preț carburant pentru comparație",refHint:"Folosit pentru a calcula cât economisești conducând electric.",

diff --git a/docs/lang/pt.js b/docs/lang/pt.js
@@ -1,4 +1,4 @@
-I18N.pt={theme:"Tema",themeAuto:"Automático (como o telemóvel)",themeLight:"Claro",themeDark:"Escuro",searchingStations:"A procurar postos…",avgAll:"de todo o período",avgPerUnit:"ponderado pela quantidade",avgMonthNote:"em {n} meses",avgTooShort:"são precisas 4 semanas de dados",dashboard:"Painel",fuelTab:"Abastecimentos",chargeTab:"Carregamentos",energyTab:"Combustível e eletricidade",costs:"Despesas",reminders:"Lembretes",reports:"Relatórios",settings:"Definições",
+I18N.pt={addEvent:"Adicionar evento",palette:"Cores",palCoffee:"Café",palGraphite:"Grafite",palForest:"Floresta",palOcean:"Oceano",calendar:"Calendário",noRemDay:"Nada agendado para este dia.",prevMonth:"Mês anterior",nextMonth:"Mês seguinte",theme:"Tema",themeAuto:"Automático (como o telemóvel)",themeLight:"Claro",themeDark:"Escuro",searchingStations:"A procurar postos…",avgAll:"de todo o período",avgPerUnit:"ponderado pela quantidade",avgMonthNote:"em {n} meses",avgTooShort:"são precisas 4 semanas de dados",dashboard:"Painel",fuelTab:"Abastecimentos",chargeTab:"Carregamentos",energyTab:"Combustível e eletricidade",costs:"Despesas",reminders:"Lembretes",reports:"Relatórios",settings:"Definições",
 addFuel:"Adicionar abastecimento",editFuel:"Editar abastecimento",addCharge:"Adicionar carregamento",editCharge:"Editar carregamento",addCost:"Adicionar despesa",editCost:"Editar despesa",addReminder:"Agendar manutenção",editReminder:"Editar manutenção agendada",addVehicle:"Adicionar carro",editVehicle:"Editar carro",
 vehicles:"Carros",name:"Nome (ex. Renault Clio)",plate:"Matrícula",year:"Ano",vin:"Número de chassis (VIN)",tankCap:"Capacidade do depósito",battery:"Capacidade da bateria (kWh)",batteryShort:"Bateria",carPhoto:"Foto do carro",fuelType:"Motorização",
 refCons:"Consumo de um carro a combustão equivalente",refPrice:"Preço do combustível para comparação",refHint:"Serve para calcular quanto poupa ao conduzir elétrico.",

diff --git a/docs/lang/ja.js b/docs/lang/ja.js
@@ -1,4 +1,4 @@
-I18N.ja={theme:"テーマ",themeAuto:"自動（端末に合わせる）",themeLight:"ライト",themeDark:"ダーク",searchingStations:"スタンドを検索中…",avgAll:"全期間",avgPerUnit:"数量で加重",avgMonthNote:"{n}か月分",avgTooShort:"4週間以上のデータが必要です",dashboard:"ホーム",fuelTab:"給油",chargeTab:"充電",energyTab:"燃料と電気",costs:"費用",reminders:"リマインダー",reports:"レポート",settings:"設定",
+I18N.ja={addEvent:"予定を追加",palette:"配色",palCoffee:"コーヒー",palGraphite:"グラファイト",palForest:"フォレスト",palOcean:"オーシャン",calendar:"カレンダー",noRemDay:"この日の予定はありません。",prevMonth:"前の月",nextMonth:"次の月",theme:"テーマ",themeAuto:"自動（端末に合わせる）",themeLight:"ライト",themeDark:"ダーク",searchingStations:"スタンドを検索中…",avgAll:"全期間",avgPerUnit:"数量で加重",avgMonthNote:"{n}か月分",avgTooShort:"4週間以上のデータが必要です",dashboard:"ホーム",fuelTab:"給油",chargeTab:"充電",energyTab:"燃料と電気",costs:"費用",reminders:"リマインダー",reports:"レポート",settings:"設定",
 addFuel:"給油を追加",editFuel:"給油を編集",addCharge:"充電を追加",editCharge:"充電を編集",addCost:"費用を追加",editCost:"費用を編集",addReminder:"整備を予定",editReminder:"予定の整備を編集",addVehicle:"車を追加",editVehicle:"車を編集",
 vehicles:"車",name:"名前（例：トヨタ プリウス）",plate:"ナンバー",year:"年式",vin:"車台番号",tankCap:"タンク容量",battery:"バッテリー容量（kWh）",batteryShort:"バッテリー",carPhoto:"車の写真",fuelType:"パワートレイン",
 refCons:"同等のガソリン車の燃費",refPrice:"比較用の燃料価格",refHint:"電気で走ってどれだけ節約できたかの計算に使います。",

diff --git a/docs/lang/is.js b/docs/lang/is.js
@@ -1,4 +1,4 @@
-I18N.is={theme:"Þema",themeAuto:"Sjálfvirkt (eins og síminn)",themeLight:"Ljóst",themeDark:"Dökkt",searchingStations:"Leita að stöðvum…",avgAll:"yfir allt tímabilið",avgPerUnit:"vegið eftir magni",avgMonthNote:"yfir {n} mánuði",avgTooShort:"þarf a.m.k. 4 vikna gögn",dashboard:"Yfirlit",fuelTab:"Áfyllingar",chargeTab:"Hleðslur",energyTab:"Eldsneyti og rafmagn",costs:"Kostnaður",reminders:"Áminningar",reports:"Skýrslur",settings:"Stillingar",
+I18N.is={addEvent:"Bæta við viðburði",palette:"Litir",palCoffee:"Kaffi",palGraphite:"Grafít",palForest:"Skógur",palOcean:"Haf",calendar:"Dagatal",noRemDay:"Ekkert á dagskrá þennan dag.",prevMonth:"Fyrri mánuður",nextMonth:"Næsti mánuður",theme:"Þema",themeAuto:"Sjálfvirkt (eins og síminn)",themeLight:"Ljóst",themeDark:"Dökkt",searchingStations:"Leita að stöðvum…",avgAll:"yfir allt tímabilið",avgPerUnit:"vegið eftir magni",avgMonthNote:"yfir {n} mánuði",avgTooShort:"þarf a.m.k. 4 vikna gögn",dashboard:"Yfirlit",fuelTab:"Áfyllingar",chargeTab:"Hleðslur",energyTab:"Eldsneyti og rafmagn",costs:"Kostnaður",reminders:"Áminningar",reports:"Skýrslur",settings:"Stillingar",
 addFuel:"Bæta við áfyllingu",editFuel:"Breyta áfyllingu",addCharge:"Bæta við hleðslu",editCharge:"Breyta hleðslu",addCost:"Bæta við kostnaði",editCost:"Breyta kostnaði",addReminder:"Skipuleggja þjónustu",editReminder:"Breyta skipulagðri þjónustu",addVehicle:"Bæta við bíl",editVehicle:"Breyta bíl",
 vehicles:"Bílar",name:"Heiti (t.d. Toyota RAV4)",plate:"Bílnúmer",year:"Árgerð",vin:"Verksmiðjunúmer (VIN)",tankCap:"Stærð eldsneytistanks",battery:"Rýmd rafhlöðu (kWh)",batteryShort:"Rafhlaða",carPhoto:"Mynd af bílnum",fuelType:"Aflrás",
 refCons:"Eyðsla sambærilegs bensín-/dísilbíls",refPrice:"Eldsneytisverð til samanburðar",refHint:"Notað til að reikna út hve mikið þú sparar með því að aka á rafmagni.",

diff --git a/docs/lang/it.js b/docs/lang/it.js
@@ -1,4 +1,4 @@
-I18N.it={theme:"Tema",themeAuto:"Automatico (come il telefono)",themeLight:"Chiaro",themeDark:"Scuro",searchingStations:"Ricerca stazioni…",avgAll:"su tutto il periodo",avgPerUnit:"ponderato per quantità",avgMonthNote:"su {n} mesi",avgTooShort:"servono almeno 4 settimane di dati",dashboard:"Panoramica",fuelTab:"Rifornimenti",chargeTab:"Ricariche",energyTab:"Carburante ed elettricità",costs:"Spese",reminders:"Promemoria",reports:"Report",settings:"Impostazioni",
+I18N.it={addEvent:"Aggiungi evento",palette:"Colori",palCoffee:"Caffè",palGraphite:"Grafite",palForest:"Foresta",palOcean:"Oceano",calendar:"Calendario",noRemDay:"Nessuna scadenza in questo giorno.",prevMonth:"Mese precedente",nextMonth:"Mese successivo",theme:"Tema",themeAuto:"Automatico (come il telefono)",themeLight:"Chiaro",themeDark:"Scuro",searchingStations:"Ricerca stazioni…",avgAll:"su tutto il periodo",avgPerUnit:"ponderato per quantità",avgMonthNote:"su {n} mesi",avgTooShort:"servono almeno 4 settimane di dati",dashboard:"Panoramica",fuelTab:"Rifornimenti",chargeTab:"Ricariche",energyTab:"Carburante ed elettricità",costs:"Spese",reminders:"Promemoria",reports:"Report",settings:"Impostazioni",
 addFuel:"Aggiungi rifornimento",editFuel:"Modifica rifornimento",addCharge:"Aggiungi ricarica",editCharge:"Modifica ricarica",addCost:"Aggiungi spesa",editCost:"Modifica spesa",addReminder:"Pianifica manutenzione",editReminder:"Modifica manutenzione pianificata",addVehicle:"Aggiungi auto",editVehicle:"Modifica auto",
 vehicles:"Auto",name:"Nome (es. Fiat Panda)",plate:"Targa",year:"Anno",vin:"Numero di telaio (VIN)",tankCap:"Capacità del serbatoio",battery:"Capacità della batteria (kWh)",batteryShort:"Batteria",carPhoto:"Foto dell’auto",fuelType:"Alimentazione",
 refCons:"Consumo di un’auto termica equivalente",refPrice:"Prezzo del carburante per il confronto",refHint:"Serve a calcolare quanto risparmi guidando elettrico.",

diff --git a/docs/lang/nl.js b/docs/lang/nl.js
@@ -1,4 +1,4 @@
-I18N.nl={theme:"Thema",themeAuto:"Automatisch (zoals telefoon)",themeLight:"Licht",themeDark:"Donker",searchingStations:"Stations zoeken…",avgAll:"over de hele periode",avgPerUnit:"gewogen naar hoeveelheid",avgMonthNote:"over {n} maanden",avgTooShort:"minstens 4 weken gegevens nodig",dashboard:"Overzicht",fuelTab:"Tankbeurten",chargeTab:"Laadbeurten",energyTab:"Brandstof & stroom",costs:"Kosten",reminders:"Herinneringen",reports:"Rapporten",settings:"Instellingen",
+I18N.nl={addEvent:"Gebeurtenis toevoegen",palette:"Kleuren",palCoffee:"Koffie",palGraphite:"Grafiet",palForest:"Bos",palOcean:"Oceaan",calendar:"Kalender",noRemDay:"Niets gepland op deze dag.",prevMonth:"Vorige maand",nextMonth:"Volgende maand",theme:"Thema",themeAuto:"Automatisch (zoals telefoon)",themeLight:"Licht",themeDark:"Donker",searchingStations:"Stations zoeken…",avgAll:"over de hele periode",avgPerUnit:"gewogen naar hoeveelheid",avgMonthNote:"over {n} maanden",avgTooShort:"minstens 4 weken gegevens nodig",dashboard:"Overzicht",fuelTab:"Tankbeurten",chargeTab:"Laadbeurten",energyTab:"Brandstof & stroom",costs:"Kosten",reminders:"Herinneringen",reports:"Rapporten",settings:"Instellingen",
 addFuel:"Tankbeurt toevoegen",editFuel:"Tankbeurt bewerken",addCharge:"Laadbeurt toevoegen",editCharge:"Laadbeurt bewerken",addCost:"Kosten toevoegen",editCost:"Kosten bewerken",addReminder:"Onderhoud plannen",editReminder:"Gepland onderhoud bewerken",addVehicle:"Auto toevoegen",editVehicle:"Auto bewerken",
 vehicles:"Auto’s",name:"Naam (bijv. Toyota Yaris)",plate:"Kenteken",year:"Bouwjaar",vin:"Chassisnummer (VIN)",tankCap:"Tankinhoud",battery:"Accucapaciteit (kWh)",batteryShort:"Accu",carPhoto:"Foto van de auto",fuelType:"Aandrijving",
 refCons:"Verbruik van een vergelijkbare brandstofauto",refPrice:"Brandstofprijs ter vergelijking",refHint:"Hiermee berekent de app hoeveel je bespaart door elektrisch te rijden.",
